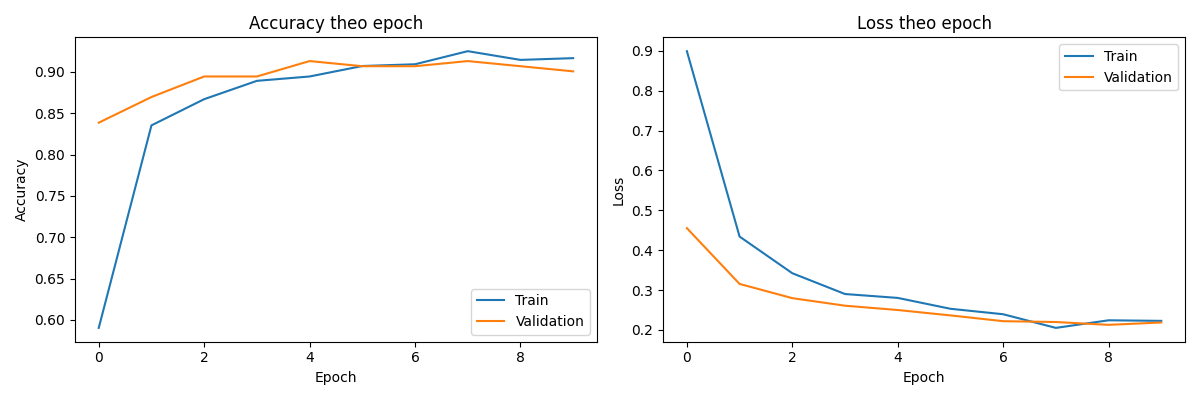
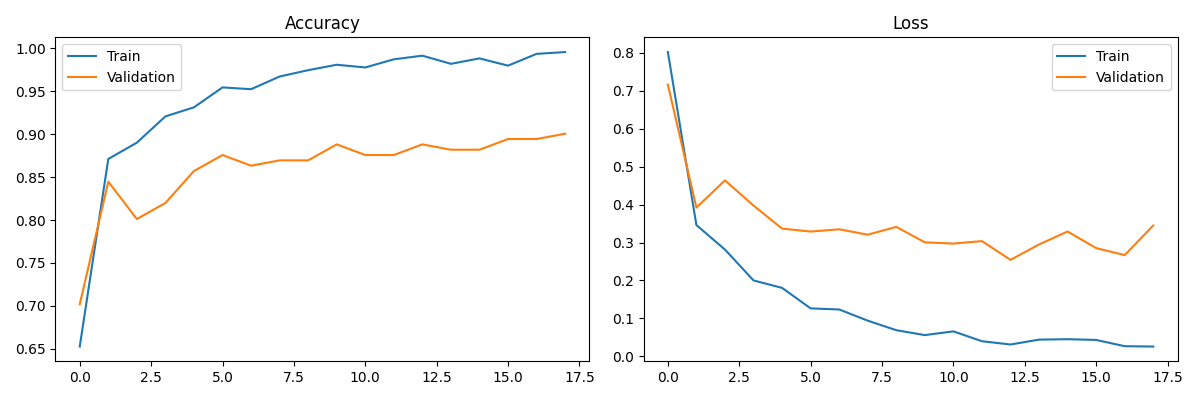
Train lại với data lớn hơn - Val Accuracy

diff --git a/train.py b/train.py
@@ -1,7 +1,7 @@
 import tensorflow as tf
 import matplotlib.pyplot as plt
 
-# Load data
+# 1. Load data - Bật shuffle=True cho cả hai tập để đồng bộ nhãn hoàn hảo
 train_ds = tf.keras.utils.image_dataset_from_directory(
     "data/train",
     image_size=(224, 224),
@@ -13,46 +13,54 @@ val_ds = tf.keras.utils.image_dataset_from_directory(
     "data/val",
     image_size=(224, 224),
     batch_size=32,
-    shuffle=False
+    shuffle=True, # Sửa thành True để tránh lệch batch nhãn
+    seed=42
 )
 
-# Tên các lớp
+# Kiểm tra thứ tự nhãn thực tế
 CLASS_NAMES = train_ds.class_names
-print("Các lớp:", CLASS_NAMES)
+print("\n[INFO] Thứ tự các lớp thực tế Keras nhận diện:", CLASS_NAMES)
 
-# Tối ưu tốc độ load
+# Tối ưu tốc độ load (Bỏ .cache() trống để ép quét lại dữ liệu sạch ngoài ổ đĩa)
 AUTOTUNE = tf.data.AUTOTUNE
-train_ds = train_ds.cache().prefetch(AUTOTUNE)
-val_ds = val_ds.cache().prefetch(AUTOTUNE)
+train_ds = train_ds.prefetch(AUTOTUNE)
+val_ds = val_ds.prefetch(AUTOTUNE)
 
-# Data Augmentation (quan trọng vì dataset nhỏ)
+# Data Augmentation chống học vẹt
 data_augmentation = tf.keras.Sequential([
     tf.keras.layers.RandomFlip("horizontal"),
-    tf.keras.layers.RandomRotation(0.1),
-    tf.keras.layers.RandomZoom(0.1),
-    tf.keras.layers.RandomBrightness(0.1),
+    tf.keras.layers.RandomRotation(0.15),
+    tf.keras.layers.RandomZoom(0.15),
+    tf.keras.layers.RandomBrightness(0.15),
 ])
 
-# Xây dựng model Transfer Learning
+# 2. Xây dựng mô hình Fine-tuning (Mở băng một phần)
 base_model = tf.keras.applications.MobileNetV2(
     input_shape=(224, 224, 3),
     include_top=False,
     weights='imagenet'
 )
-base_model.trainable = False
+
+# Bật trainable để tinh chỉnh trọng số cho phù hợp cấu trúc xe thực tế
+base_model.trainable = True
+
+# Khóa các tầng trích xuất cạnh cơ bản, chỉ mở 40 tầng cao cấp phía sau để học hình khối xe
+for layer in base_model.layers[:-40]:
+    layer.trainable = False
 
 inputs = tf.keras.Input(shape=(224, 224, 3))
 x = data_augmentation(inputs)
-x = tf.keras.applications.mobilenet_v2.preprocess_input(x)  # Chuẩn hóa đúng cho MobileNetV2
-x = base_model(x, training=False)
+x = tf.keras.applications.mobilenet_v2.preprocess_input(x)
+x = base_model(x, training=True) # training=True giúp cập nhật các tầng BatchNormalization
 x = tf.keras.layers.GlobalAveragePooling2D()(x)
-x = tf.keras.layers.Dropout(0.3)(x)
+x = tf.keras.layers.Dropout(0.4)(x) # Tăng dropout lên một chút chống overfitting
 outputs = tf.keras.layers.Dense(3, activation='softmax')(x)
 
 model = tf.keras.Model(inputs, outputs)
 
+# HẠ THẤP LEARNING RATE (Bắt buộc khi Fine-tuning để tránh làm nát trọng số ImageNet)
 model.compile(
-    optimizer=tf.keras.optimizers.Adam(learning_rate=0.001),
+    optimizer=tf.keras.optimizers.Adam(learning_rate=1e-4), # Giảm xuống 0.0001
     loss='sparse_categorical_crossentropy',
     metrics=['accuracy']
 )
@@ -61,55 +69,39 @@ model.summary()
 
 # Callbacks
 early_stopping = tf.keras.callbacks.EarlyStopping(
-    monitor='val_accuracy',
-    patience=5,           # Dừng nếu 5 epoch không cải thiện
+    monitor='val_loss', # Theo dõi val_loss chính xác hơn val_accuracy
+    patience=5,
     restore_best_weights=True
 )
 
 checkpoint = tf.keras.callbacks.ModelCheckpoint(
     "models/best_model.keras",
     monitor='val_accuracy',
-    save_best_only=True,  # Chỉ lưu model tốt nhất
+    save_best_only=True,
     verbose=1
 )
 
-# Huấn luyện
-print("\n=== BẮT ĐẦU TRAINING ===")
+print("\n=== BẮT ĐẦU TRAINING MỚI (FINE-TUNING) ===")
 history = model.fit(
     train_ds,
     validation_data=val_ds,
-    epochs=30,
+    epochs=25,
     callbacks=[early_stopping, checkpoint]
 )
 
-# Lưu model cuối
-model.save("models/xe_classifier.keras")
-print("Đã lưu model!")
-
-# Kết quả tốt nhất
-best_acc = max(history.history['val_accuracy'])
-print(f"\n✅ Val Accuracy tốt nhất: {best_acc*100:.1f}%")
-
-# Vẽ đồ thị kết quả
+# Vẽ và lưu đồ thị kết quả mới
 plt.figure(figsize=(12, 4))
-
 plt.subplot(1, 2, 1)
 plt.plot(history.history['accuracy'], label='Train')
 plt.plot(history.history['val_accuracy'], label='Validation')
-plt.title('Accuracy theo epoch')
-plt.xlabel('Epoch')
-plt.ylabel('Accuracy')
+plt.title('Accuracy')
 plt.legend()
 
 plt.subplot(1, 2, 2)
 plt.plot(history.history['loss'], label='Train')
 plt.plot(history.history['val_loss'], label='Validation')
-plt.title('Loss theo epoch')
-plt.xlabel('Epoch')
-plt.ylabel('Loss')
+plt.title('Loss')
 plt.legend()
-
 plt.tight_layout()
 plt.savefig("ket_qua_training.png")
-plt.show()
-print("Đã lưu đồ thị ket_qua_training.png")
+print("\n✅ Đã lưu đồ thị mới vào file ket_qua_training.png")

diff --git a/evaluate.py b/evaluate.py
@@ -10,7 +10,7 @@ print("Dang load model...")
 model = tf.keras.models.load_model("models/best_model.keras")
 CLASS_NAMES = ['Bus', 'Car', 'Truck']
 
-TEST_DIR = r"D:\Code\archive\test"
+TEST_DIR = os.path.join("data", "test")
 
 results = {'Bus': 0, 'Car': 0, 'Truck': 0}
 files = [f for f in os.listdir(TEST_DIR) if f.endswith(('.jpg', '.jpeg', '.png'))]
